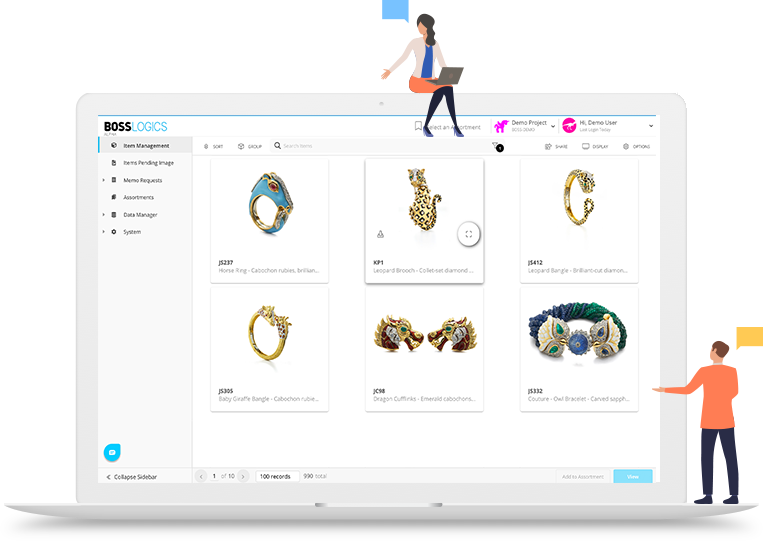
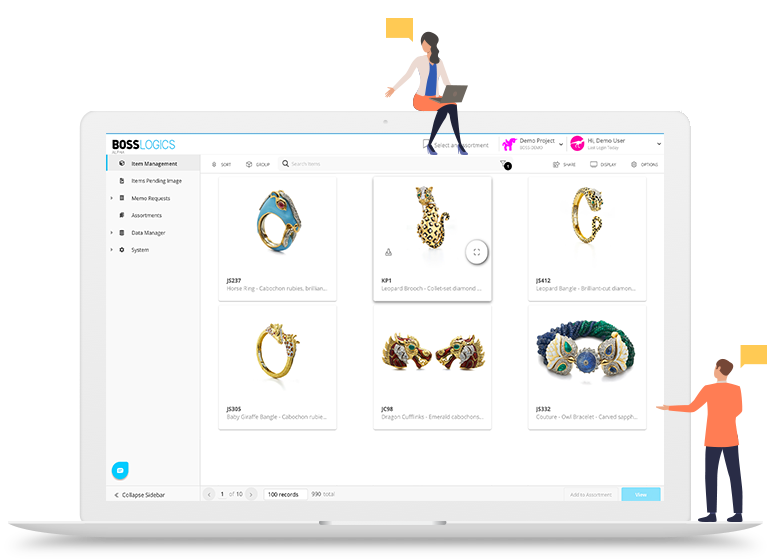
first commit

diff --git a/css/style.css b/css/style.css
@@ -5,9 +5,105 @@
     font-family: Arial, sans-serif;
 }
 
+.hero,
+.banner-text {
+    position: relative;
+    overflow: hidden;
+}
+
+.hero-bg {
+    position: absolute;
+    top: -180px;
+    right: -180px;
+    z-index: 0;
+}
+
+.hero-bg img {
+    width: 1100px;
+    display: block;
+}
+
+.banner-btn {
+    display: inline-block;
+    padding: 18px 55px;
+    border-radius: 40px;
+    background: #2ec8ff;
+    color: #fff;
+    text-decoration: none;
+    font-weight: bold;
+    letter-spacing: 2px;
+}
+
+.cta {
+    position: relative;
+    overflow: hidden;
+}
+
+.cta-bg {
+    position: absolute;
+    right: -200px;
+    bottom: -150px;
+    z-index: 0;
+}
+
+.cta-bg img {
+    width: 1000px;
+}
+
+.cta-content,
+.cta-image {
+    position: relative;
+    z-index: 2;
+}
+
+.banner-text {
+    position: relative;
+    overflow: hidden;
+    padding: 120px 0;
+}
+
+.banner-bg {
+    position: absolute;
+    left: -180px;
+    bottom: -180px;
+    z-index: 0;
+}
+
+.banner-bg img {
+    width: 700px;
+    display: block;
+}
+
+.banner-bg img {
+    width: 650px;
+    display: block;
+}
+
+.hero .text,
+.hero .image,
+.banner-text .content {
+    position: relative;
+    z-index: 1;
+}
+
+.text-title {
+    display: flex;
+    gap: 25px;
+    align-items: flex-start;
+    margin-bottom: 30px;
+}
+
+.text-line {
+    width: 3px;
+    height: 170px;
+    background: #33c8ff;
+}
+
 body {
     background: white;
 }
+
+
 
 header {
     display: flex;
@@ -39,7 +135,7 @@ nav a {
 }
 
 .text {
-    width: 45%;
+    width: 550px;
 }
 
 h1 {
@@ -71,7 +167,6 @@ button {
 
 .image {
     width: 700px;
-    background: #dff7ff;
     border-radius: 20px;
     display: flex;
     justify-content: center;
@@ -81,24 +176,27 @@ button {
     object-fit: cover;
 }
 
-.banner {
+.banner-text {
     position: relative;
+    overflow: hidden;
+    padding: 120px 0;
+    background: #fff;
+    /*
     z-index: 1;
     max-width: 1200px;
     width: 100%;
     height: 500px;
     margin: auto;
-    position: relative;
     display: flex;
     align-items: center;
     gap: 80px;
-    background: #fff;
+    background: #fff;*/
 }
 
 .image-box {
-    width: 470px;
+    width: 420px;
     height: 330px;
-    display: flex;
+    display: block;
     justify-content: center;
     align-items: center;
     position: relative;
@@ -106,19 +204,28 @@ button {
 }
 
 .image-box img {
-    width: 550px;
+    width: 350px;
     position: relative;
     left: 120px;
     margin-left: -300px;
     margin-bottom: -50px;
+    margin: 1rem;
 }
 
-.content {
+.content{
+    width: 100%;
+    max-width: 1200px;
+    margin: 0 auto;
+    padding: 0 20px;
     display: flex;
-    align-items: flex-start;
-    gap: 25px;
-    z-index: 1;
-    margin-left: 120px;
+    justify-content: space-between;
+    align-items: center;
+    gap: 80px;
+}
+
+.content .text{
+    width: 50%;
+    max-width: 550px;
 }
 
 .line {
@@ -455,7 +562,7 @@ button {
 
 .newsletter input {
     flex: 1;
-    min-width:0;
+    min-width: 0;
     padding: 14px 20px;
     background: transparent;
     border: 1px solid #4b5563;

diff --git a/index.html b/index.html
@@ -8,7 +8,6 @@
 </head>
 
 <body>
-
     <header>
         <div class="logo">
             <img src="img/logo.png" alt="">
@@ -23,23 +22,24 @@
             <a href="#">Contact</a>
         </nav>
     </header>
-
     <main>
         <section class="hero">
-
+            <div class="hero-bg">
+                <img src="img/Layer 1.png" alt="">
+            </div>
             <div class="text">
-                <h1>
-                    Software that works<br>
-                    the way you do
-                </h1>
+                        <h1>
+                            Software that works<br>
+                            the way you do
+                        </h1>
 
-                <p>
-                    Simplify, transform, and automate your product creation, sales, and management
-                    with BOSS Logics—so you can get products to market faster and more effectively.
-                </p>
+                        <p>
+                            Simplify, transform, and automate your product creation, sales, and management
+                            with BOSS Logics—so you can get products to market faster and more effectively.
+                        </p>
 
-                <button>GET STARTED</button>
-                <button class="outline">LEARN MORE</button>
+                        <button>GET STARTED</button>
+                        <button class="outline">LEARN MORE</button>
             </div>
 
             <div class="image">
@@ -47,6 +47,9 @@
             </div>
         </section>
         <section class="banner-text">
+            <div class="banner-bg">
+                <img src="img/Layer 7 copy 3.png" alt="">
+            </div>
             <div class="circle-left"></div>
             <div class="content">
                 <div class="image-box">
@@ -204,7 +207,9 @@
             <div class="cta-image">
                 <img src="img/Macbook money.png" alt="Dashboard">
             </div>
-
+            <div class="cta-bg">
+                <img src="img/Layer 1 copy 5.png" alt="">
+            </div>
         </section>
     </main>
     <footer class="footer">